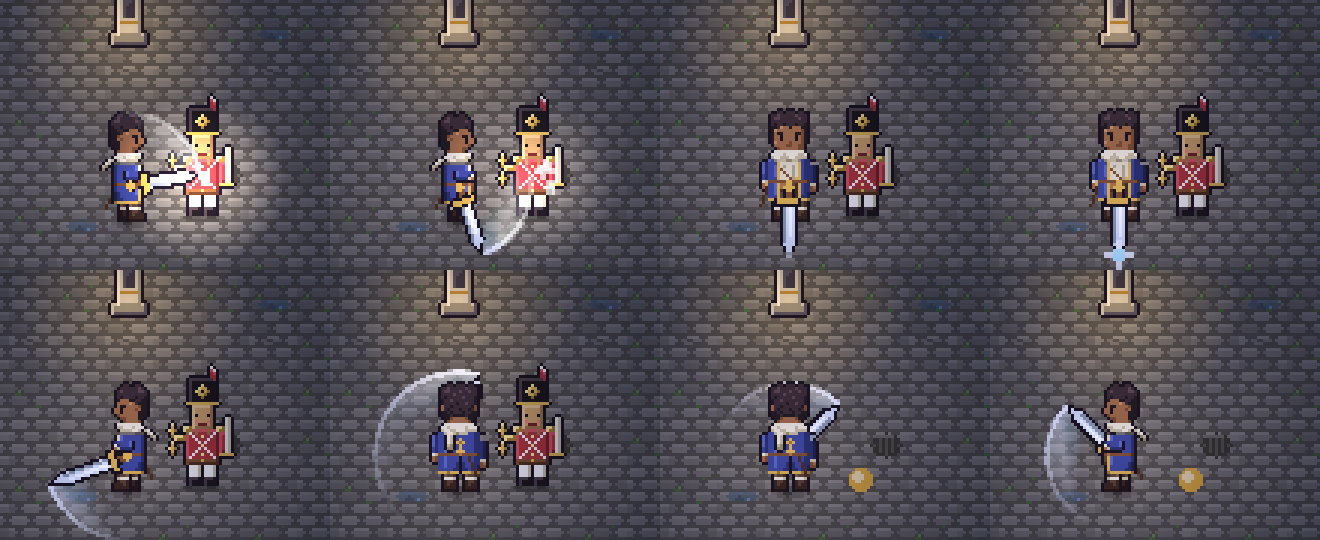
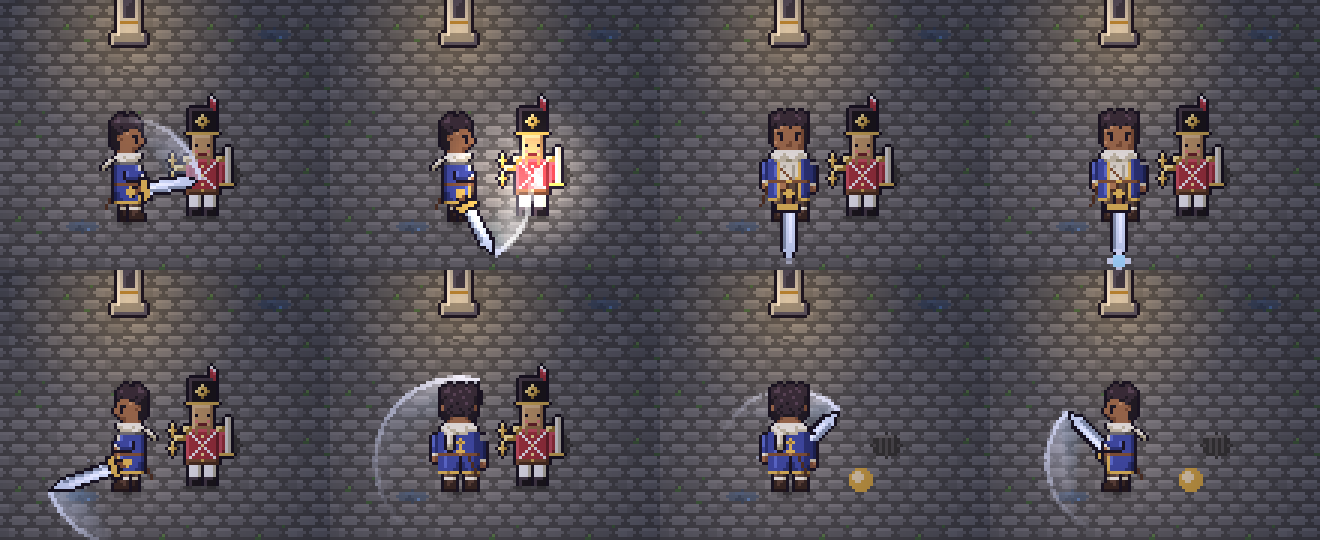
fix: review fixes for classic play (poke, bells, old saves, keys)
- the held blade pokes only ordinary enemies, after poke_interval, with a
  per-enemy clock: bells, Igris and the bindings need a real strike
- an old save that already has the bow finds the tower chest empty and
  is told so
- Space, Shift, B and LB are free again; old dodge/guard bindings ignored
- the Vigil Brooch widens the shield instead of the removed perfect guard
- the blade is drawn from the hit pivot; the first spin is logged for the
  playtest instead of the perfect guard
- docs and texts no longer mention the free dodge

Story: design/gdd/jogabilidade-classica.md

Claude-Session: https://claude.ai/code/session_0129b5S34zGDmMBPb7tpAKcU

diff --git a/design/gdd/jogabilidade-classica.md b/design/gdd/jogabilidade-classica.md
@@ -51,8 +51,9 @@ Começo fraco e cada baú me deixa mais forte."
    direção de Yggnus, sempre no sentido horário da tela. Acerta tudo que a
    lâmina varre: inimigo, arbusto, pote, sino. Cada alvo leva no máximo um
    acerto por golpe.
-4. O alcance é medido do pivô (`hit_pivot`, um pouco acima dos pés) até a
-   ponta: `blade_inner` (cabo) a `reach` px.
+4. O alcance é medido do pivô (`hit_pivot`, na altura do peito; a lâmina é
+   desenhada a partir do mesmo ponto) até a ponta: `blade_inner` (cabo) a
+   `reach` px.
 5. Yggnus para durante o golpe (desacelera).
 
 ### 3.2 Carga e giro
@@ -60,8 +61,11 @@ Começo fraco e cada baú me deixa mais forte."
 1. Se o botão continua apertado quando o golpe termina, Yggnus passa a
    **carregar**: a lâmina fica apontada para a frente, ele anda a
    `charge_speed_factor` da velocidade e não vira (anda de lado).
-2. Inimigos que encostam na lâmina carregada levam `poke_damage` e são
-   empurrados; o mesmo inimigo só leva de novo depois de `poke_interval` s.
+2. Depois de `poke_interval` s com a lâmina à frente, inimigos comuns que
+   encostam nela levam `poke_damage` e são empurrados; cada inimigo só leva
+   de novo depois de outros `poke_interval` s (relógio por inimigo). Sinos,
+   Igris, o regulador e as amarras de Yame só contam golpes de verdade
+   (golpe ou giro), nunca a lâmina parada.
 3. Depois de `charge_time` s a ponta brilha: carga cheia.
 4. Soltar com a carga cheia faz o **giro**: a lâmina percorre
    `spin_degrees` em `spin_time` s, alcance `spin_reach`, dano do golpe
@@ -76,7 +80,9 @@ Começo fraco e cada baú me deixa mais forte."
 2. Cobre o cone frontal (`guard.angle_degrees`). Golpe leve de frente: sem
    dano. Golpe pesado: guarda quebra por `guard_break` s e entra
    `heavy_guard_damage`. A onda de Igris nunca é bloqueada.
-3. Não há bloqueio perfeito nem botão de defesa.
+3. Não há bloqueio perfeito nem botão de defesa. A relíquia Broche da
+   Vigília, que alargava a janela precisa, agora alarga a cobertura do
+   escudo (`guard.angle_degrees` 140).
 
 ### 3.4 Dano em Yggnus
 
@@ -126,8 +132,12 @@ Ao levar dano: recuo de `knockback` px em `hitstun` s e invencibilidade de
   a lâmina passa.
 - Escudo quebrado por golpe pesado: volta sozinho depois de `guard_break`.
 - Save antigo com o arco já pego na adega: o arco continua com o jogador
-  (o recibo é o mesmo); o baú da antecâmara abre vazio de arco e entrega só
-  as agulhas que faltarem. Ver §8.
+  (o recibo é o mesmo). O baú da antecâmara abre vazio e diz "Vazio. Você
+  já tem o que estava aqui." O baú da adega, com recibo novo, entrega os 50
+  Bronze uma vez também nesse save (bônus aceito).
+- Teclas antigas: Espaço, Shift, B e LB ficam livres para outras ações; um
+  arquivo de configurações com esquiva ou defesa salvas é lido sem erro e
+  essas entradas são ignoradas.
 
 ## 6. Dependências
 
@@ -149,7 +159,7 @@ Ao levar dano: recuo de `knockback` px em `hitstun` s e invencibilidade de
 | sword.swing_startup / active / recovery | 0.03 / 0.12 / 0.08 | s |
 | sword.arc_from / arc_to | −100 / 75 | graus |
 | sword.reach / blade_inner | 27 / 5 | px |
-| sword.hit_pivot | [0, −6] | px |
+| sword.hit_pivot | [0, −10] | px |
 | sword.charge_time | 0.75 | s |
 | sword.charge_speed_factor | 0.55 | |
 | sword.spin_time / spin_degrees / spin_reach | 0.36 / 380 / 31 | |

diff --git a/production/qa/smoke-2026-11-11-jogabilidade-classica.md b/production/qa/smoke-2026-11-11-jogabilidade-classica.md
@@ -1,0 +1,54 @@
+# Smoke check: jogabilidade clássica (teste18), 2026-11-11
+
+GDD: `design/gdd/jogabilidade-classica.md`.
+
+## Suíte automática
+
+`godot --headless --path . -s res://tests/run_tests.gd`: **280 passaram, 0 falharam**.
+
+Testes novos:
+
+- `tests/unit/combat/test_sword_swing.gd` cobre o golpe, o arco, a carga, o giro, a espera da estocada, a varredura e os corações.
+- `tests/integration/combat/test_classic_play.gd` cobre:
+  - a frente inteira e as costas;
+  - o giro nos quatro lados;
+  - andar de lado carregando;
+  - o escudo passivo, que fica baixo durante o golpe e a carga;
+  - a falta de esquiva livre;
+  - o recuo e a invencibilidade;
+  - a linha de teclas;
+  - o HUD;
+  - o arco na torre;
+  - o sino que toca uma vez;
+  - a estocada por inimigo;
+  - o save antigo.
+
+## Revisão (especialista GDScript e QA), corrigido
+
+1. A lâmina segurada tocava o sino de novo (quebrava a ordem de Igris e de t05) e contava como golpe no regulador e nas amarras. Agora a estocada só atinge inimigos comuns, começa depois de `poke_interval` e conta por inimigo.
+2. Um save antigo com o arco ganhava um baú na torre que dizia "Recebeu..." sem dar nada. Agora o baú diz "Vazio. Você já tem o que estava aqui."
+3. Espaço, Shift, B e LB ficavam presos às ações removidas. Agora estão livres.
+4. O Broche da Vigília não fazia nada. Agora alarga o escudo (140°).
+5. A lâmina era desenhada 6 px acima de onde acertava. Agora usa um pivô só.
+6. A linha de teclas mostrava o frasco sem frasco. Agora só mostra o que o jogador tem.
+7. Textos e documentos sobre esquiva e defesa precisa:
+   - a fala das Botas;
+   - o comentário de Igris;
+   - o protocolo do playtest, que agora registra o primeiro giro;
+   - a nota no kit de mecânicas.
+8. Código e teste mortos da linha de chaves antiga.
+
+## Evidência visual
+
+`production/qa/evidence/jogabilidade-classica/` (01 a 12):
+
+- o começo sem nada;
+- o golpe para a direita, para cima e para a esquerda;
+- a carga, a carga cheia e o giro;
+- o HUD com corações, meio coração e a caixa do arco;
+- o HUD na masmorra.
+
+## Ainda não verificado em jogo
+
+- A luta com Igris sem esquiva. A conta foi feita: a onda tem raio de 26 px e aviso de pelo menos 0,75 s, e para sair andando bastam cerca de 0,3 s.
+- A sensação geral é para o playtest do usuário.

diff --git a/design/kit/mecanicas-e-dificuldade.md b/design/kit/mecanicas-e-dificuldade.md
@@ -1,5 +1,11 @@
 # A LENDA DE YGGNUS — ESPECIFICAÇÃO DE MECÂNICAS E DIFICULDADE
 
+> **Nota (2026-11-11):** o combate de Yggnus (§3–5: combo de três golpes,
+> defesa segurada com janela precisa, esquiva livre e as teclas Espaço/Shift)
+> foi substituído pela jogabilidade clássica de
+> `design/gdd/jogabilidade-classica.md` (golpe em arco, giro carregado,
+> escudo passivo, esquiva só com um item futuro). O restante vale.
+
 Versão 1.1. Esta especificação complementa o roteiro e o atlas; em divergências de regra, prevalece sobre as versões 1.0. Os acontecimentos e decisões da história permanecem iguais. Os números são parâmetros iniciais verificáveis no protótipo, não uma garantia de diversão já comprovada.
 
 ## 1. Meta de experiência

diff --git a/production/qa/playtests/roteiro-etapa-10.md b/production/qa/playtests/roteiro-etapa-10.md
@@ -36,7 +36,7 @@ um arquivo `.txt` legível e um `.json` por sessão. No Windows a pasta fica em
 
 - mortes por sala e o que deu o último golpe;
 - golpes recebidos sem morrer, por origem (ajuda a ver se os ataques são percebidos antes do dano);
-- quando a pessoa acertou a espada, defendeu com o escudo, fez uma defesa precisa e atravessou com o
+- quando a pessoa acertou a espada, defendeu com o escudo, carregou e soltou o giro da espada e atravessou com o
   gancho pela primeira vez;
 - cada tentativa contra Igris, com o resultado e a duração;
 - comandos que não fizeram nada (espada antes de tê-la, examinar sem nada à frente, porta fechada,
